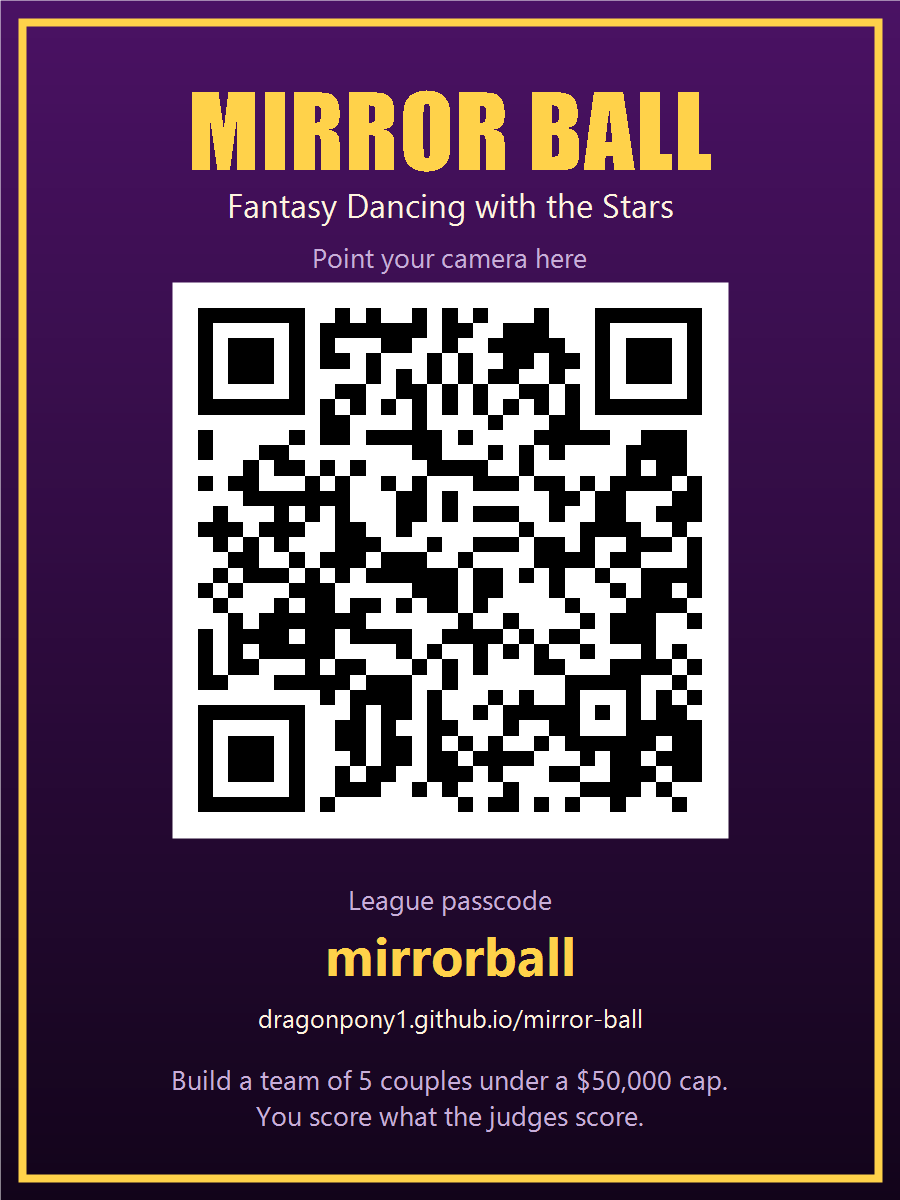
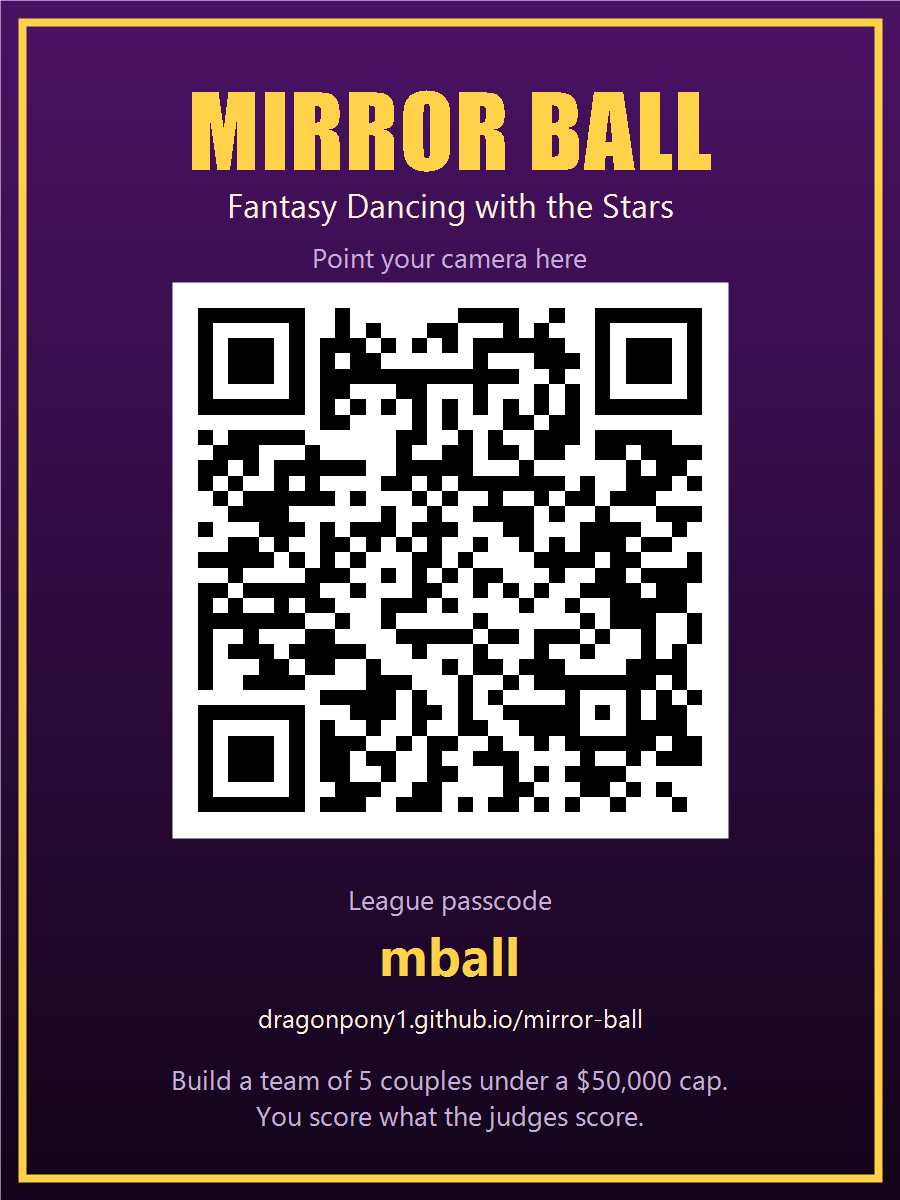
v2.0 — one league: Matt's, passcode mball
Matt kept the league he made himself and dropped the seeded one, so the app's
fallback passcode, the QR in the share modal and the printable invite card all
point at ?join=mball now. The old mirrorball QR is dead.

Changed region(s): [[0.2178, 0.2467, 0.7778, 0.6783], [0.3422, 0.7708, 0.6533, 0.8325]]

diff --git a/js/config.js b/js/config.js
@@ -4,11 +4,11 @@ export const SUPABASE_URL = "https://fzyfxccwrgxysoeqohlp.supabase.co";
 export const SUPABASE_ANON_KEY = "sb_publishable_IWCEz08f1cRC2pkxVPclGw__Qpwaqtn";
 
 // Shown in the share card before you've joined a league.
-export const LEAGUE_PASSCODE = "mirrorball";
+export const LEAGUE_PASSCODE = "mball";
 
 // Bump on every push so phones can confirm they have the latest
 // (old copies linger in the GitHub Pages cache ~10 minutes).
-export const VERSION = "1.9";
+export const VERSION = "2.0";
 
 export const SEASON = 35;
 

diff --git a/index.html b/index.html
@@ -15,7 +15,7 @@
 <link href="https://fonts.googleapis.com/css2?family=Bebas+Neue&family=Source+Sans+3:wght@400;600;700&display=swap" rel="stylesheet">
 <!-- ?v= must match VERSION in js/config.js. Without it a style-only change can
      sit behind a phone's cache for hours after the app itself has updated. -->
-<link rel="stylesheet" href="css/style.css?v=1.9">
+<link rel="stylesheet" href="css/style.css?v=2.0">
 </head>
 <body>
 
